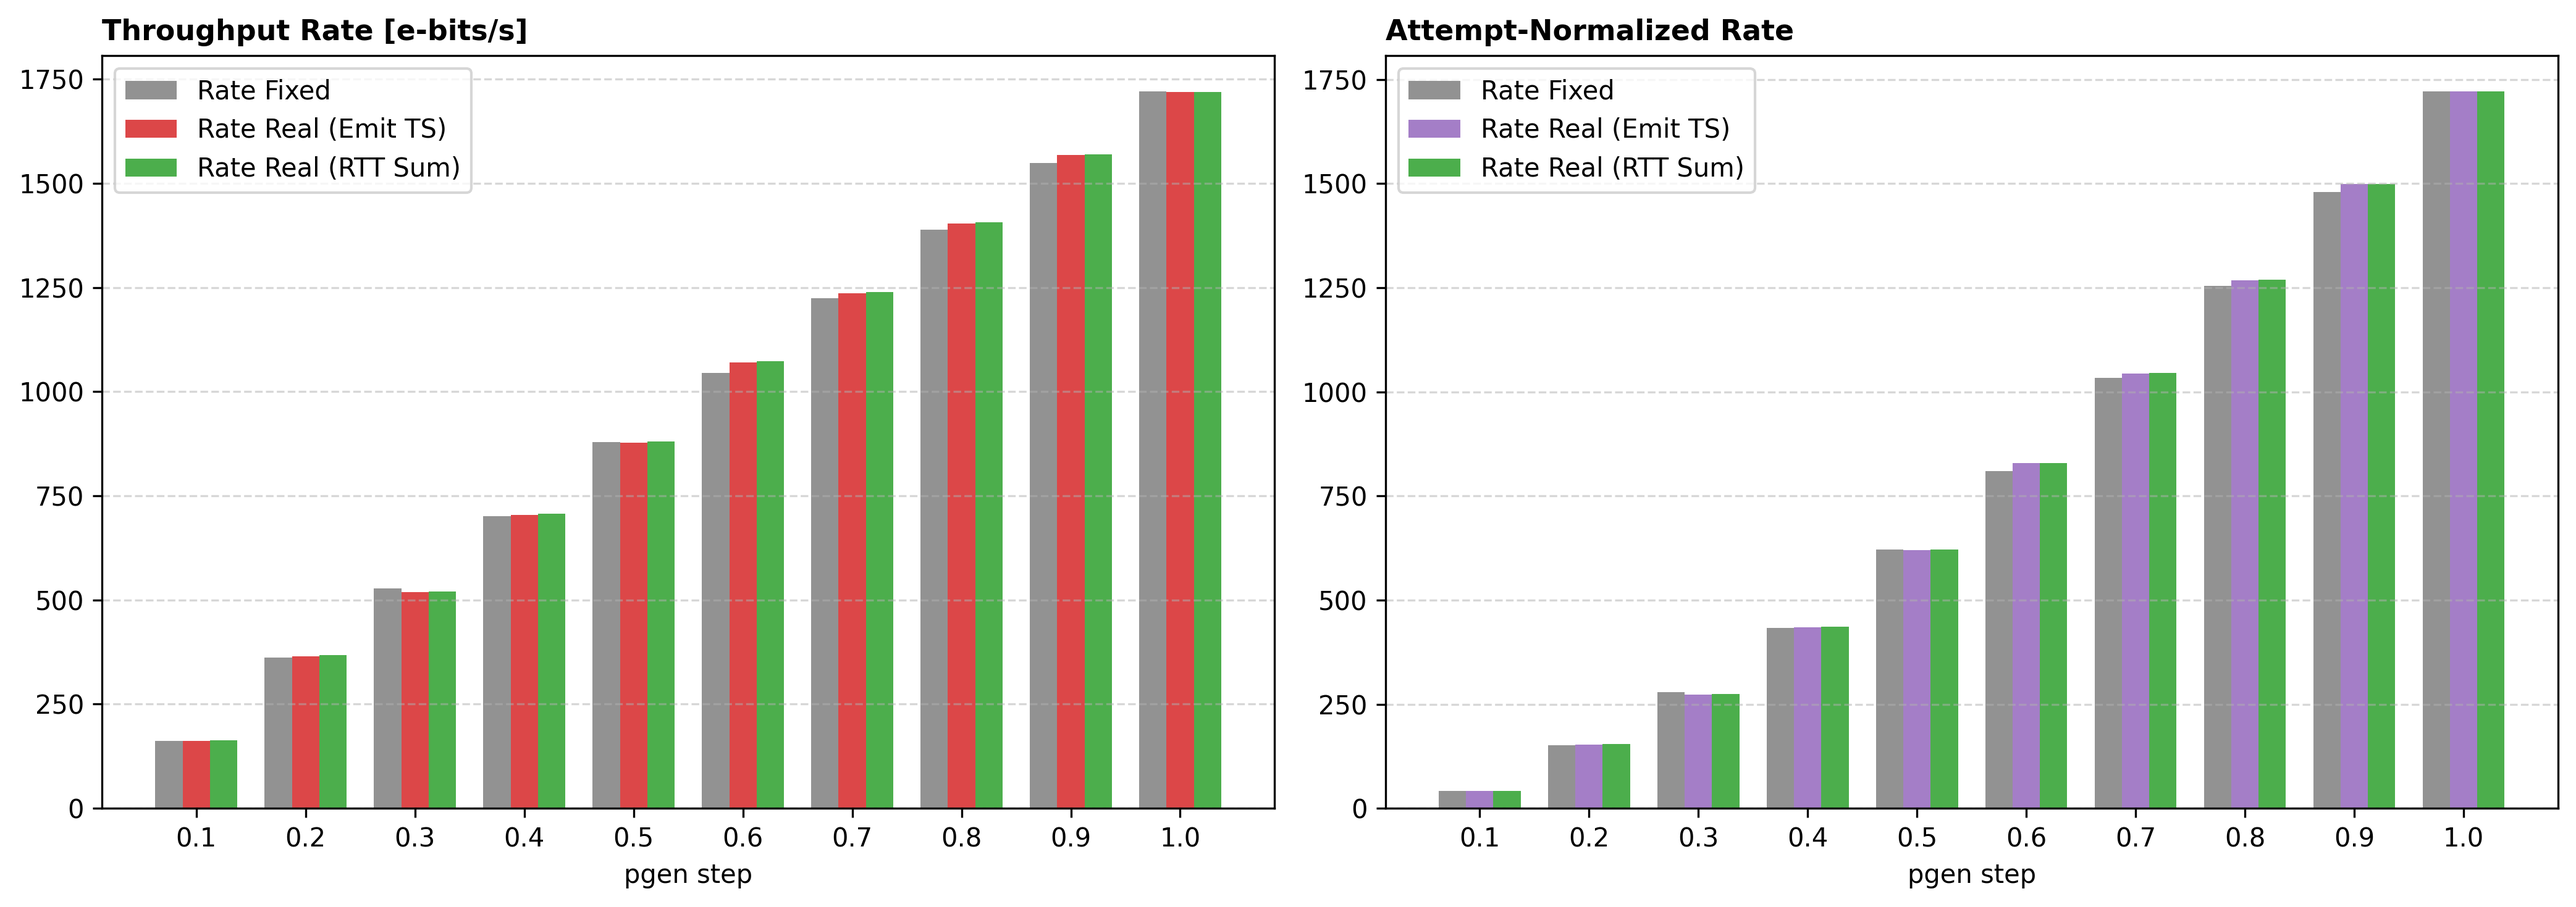
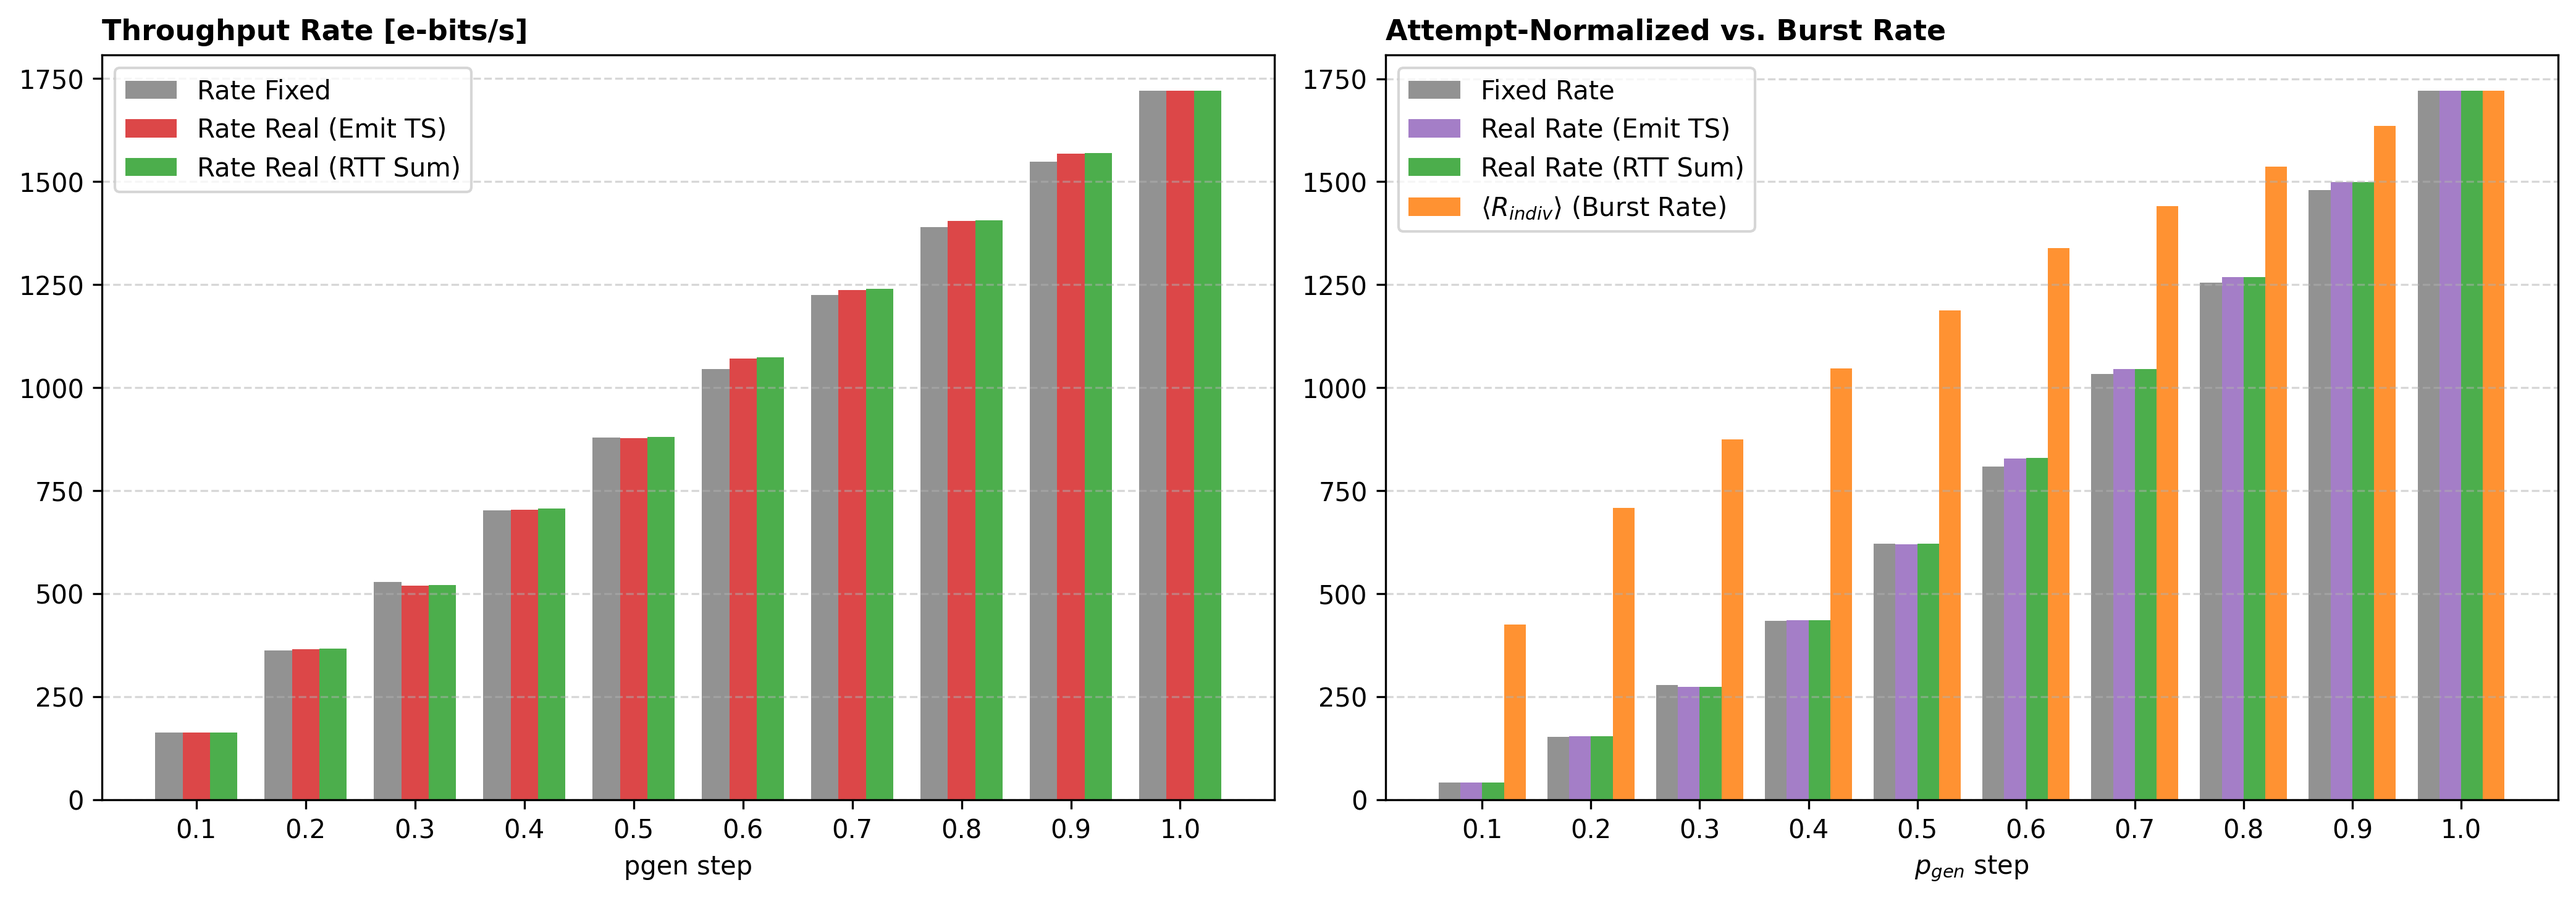
Seq plot of AEGO rate fixed

diff --git a/AEGO/AEGO_analyzer.py b/AEGO/AEGO_analyzer.py
@@ -323,12 +323,16 @@ def plot_sequential_comparison(df_res, output_plot, selected_indices=None):
     axes[0].grid(True, linestyle='--', alpha=0.5, axis='y')
     axes[0].legend()
 
-    # Subplot 2: Rate Attempt-Normalized (3 Barras)
-    axes[1].bar(x - width, df_res['Rate_fixed_attempt'], width, label='Rate Fixed', color='#7f7f7f', alpha=0.85)
-    axes[1].bar(x, df_res['Rate_real_attempt'], width, label='Rate Real (Emit TS)', color='#9467bd', alpha=0.85)
-    axes[1].bar(x + width, df_res['Rate_rtt_attempt'], width, label='Rate Real (RTT Sum)', color='#2ca02c', alpha=0.85)
-    axes[1].set_title("Attempt-Normalized Rate", loc='left', fontsize=11, fontweight='bold')
-    axes[1].set_xlabel("pgen step", fontsize=10)
+    # Subplot 2: Attempt-Normalized Rate vs. Burst Rate (4 Bars)
+    width = 0.20  # Adjust bar width to fit 4 bars cleanly
+
+    axes[1].bar(x - 1.5 * width, df_res['Rate_fixed_attempt'], width, label='Fixed Rate', color='#7f7f7f', alpha=0.85)
+    axes[1].bar(x - 0.5 * width, df_res['Rate_real_attempt'], width, label='Real Rate (Emit TS)', color='#9467bd', alpha=0.85)
+    axes[1].bar(x + 0.5 * width, df_res['Rate_rtt_attempt'], width, label='Real Rate (RTT Sum)', color='#2ca02c', alpha=0.85)
+    axes[1].bar(x + 1.5 * width, df_res['Rate_real_indiv_mean'], width, label=r'$\langle R_{indiv} \rangle$ (Burst Rate)', color='#ff7f0e', alpha=0.85)
+
+    axes[1].set_title('Attempt-Normalized vs. Burst Rate', loc='left', fontsize=11, fontweight='bold')
+    axes[1].set_xlabel('$p_{gen}$ step', fontsize=10)
     axes[1].set_xticks(x)
     axes[1].set_xticklabels(df_res['pgen'])
     axes[1].grid(True, linestyle='--', alpha=0.5, axis='y')
